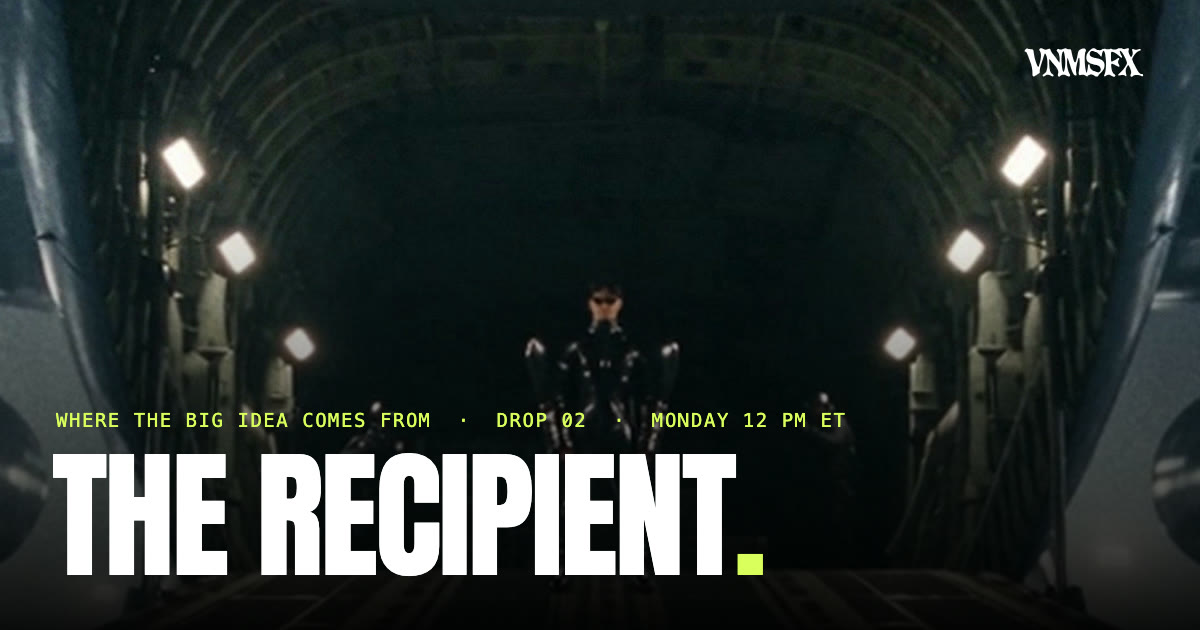
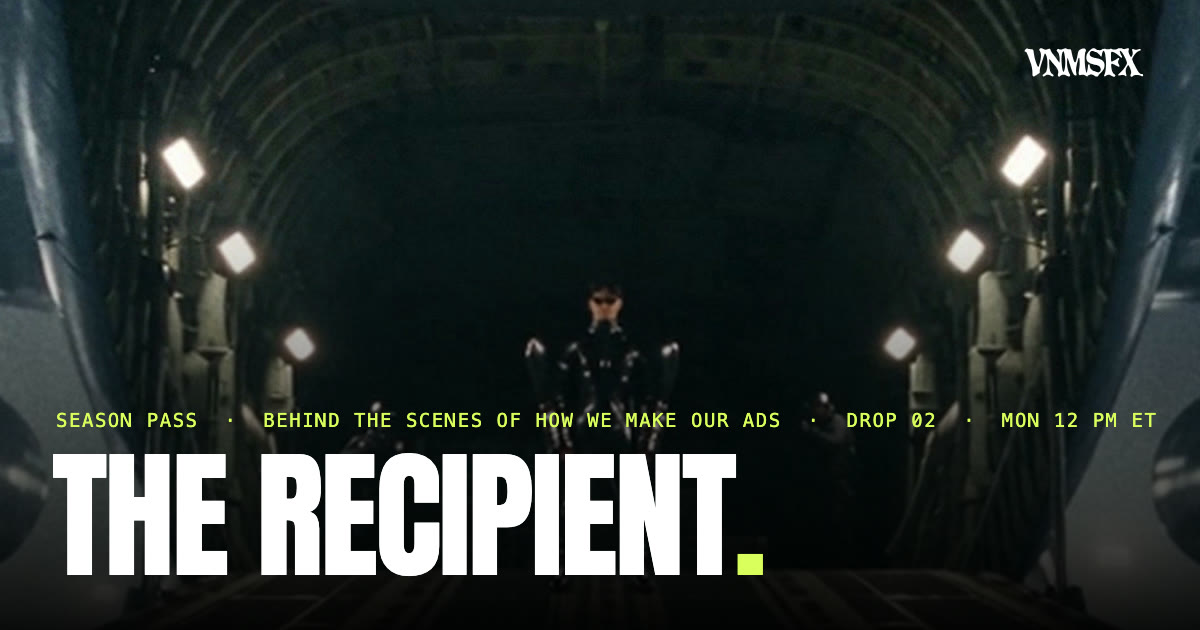
Drops: Season Pass first — behind the scenes of how we make our ads

Changed region(s): [[0.0308, 0.6333, 0.7708, 0.6937], [0.8325, 0.6333, 0.9558, 0.6937]]

diff --git a/drops/youre-up.html b/drops/youre-up.html
@@ -6,14 +6,14 @@
 <meta name="description" content="Frozen fries get a classified extraction just to make it to an air fryer. You’re Up., a VNMSFX TV blockbuster ad, is out now. Join the Season Pass to see the idea underneath it and the next drop 24 hours early.">
 <link rel="canonical" href="https://vnmsfx.com/drops/youre-up"><meta name="theme-color" content="#101010">
 <meta property="og:type" content="website"><meta property="og:site_name" content="VNMSFX TV"><meta property="og:url" content="https://vnmsfx.com/drops/youre-up">
-<meta property="og:title" content="You’re Up. — Where the Big Idea Comes From, Drop 01"><meta property="og:description" content="Frozen fries get a classified extraction. Out now. The idea underneath it is on the Season Pass.">
-<meta property="og:image" content="https://vnmsfx.com/tv/drops/share-youre-up.jpg"><meta property="og:image:secure_url" content="https://vnmsfx.com/tv/drops/share-youre-up.jpg"><meta property="og:image:type" content="image/jpeg"><meta property="og:image:width" content="1200"><meta property="og:image:height" content="630"><meta property="og:image:alt" content="You’re Up. A man in a fry costume carries a case through a warehouse, flanked by a tactical team."><meta name="twitter:card" content="summary_large_image"><meta name="twitter:title" content="You’re Up. — Where the Big Idea Comes From, Drop 01"><meta name="twitter:description" content="Frozen fries get a classified extraction. Out now. The idea underneath it is on the Season Pass."><meta name="twitter:image" content="https://vnmsfx.com/tv/drops/share-youre-up.jpg">
+<meta property="og:title" content="You’re Up. — Season Pass Drop 01 · Behind the scenes of how we make our ads"><meta property="og:description" content="Frozen fries get a classified extraction. Out now. The idea underneath it is on the Season Pass.">
+<meta property="og:image" content="https://vnmsfx.com/tv/drops/share-youre-up.jpg"><meta property="og:image:secure_url" content="https://vnmsfx.com/tv/drops/share-youre-up.jpg"><meta property="og:image:type" content="image/jpeg"><meta property="og:image:width" content="1200"><meta property="og:image:height" content="630"><meta property="og:image:alt" content="You’re Up. A man in a fry costume carries a case through a warehouse, flanked by a tactical team."><meta name="twitter:card" content="summary_large_image"><meta name="twitter:title" content="You’re Up. — Season Pass Drop 01 · Behind the scenes of how we make our ads"><meta name="twitter:description" content="Frozen fries get a classified extraction. Out now. The idea underneath it is on the Season Pass."><meta name="twitter:image" content="https://vnmsfx.com/tv/drops/share-youre-up.jpg">
 <link rel="icon" href="/favicon.ico" sizes="any"><link rel="icon" type="image/png" sizes="32x32" href="/assets/favicon-32.png"><link rel="icon" type="image/png" sizes="16x16" href="/assets/favicon-16.png"><link rel="apple-touch-icon" href="/assets/favicon-180.png">
 <link rel="preconnect" href="https://fonts.googleapis.com"><link rel="preconnect" href="https://fonts.gstatic.com" crossorigin>
 <link href="https://fonts.googleapis.com/css2?family=Anton&amp;family=Archivo:wght@400;500;600;700;800;900&amp;family=Space+Mono:wght@400;700&amp;display=swap" rel="stylesheet">
 <link rel="stylesheet" href="/drops/drops.css">
 </head>
-<body class="drop-page" data-drop="the-recipient" data-no-rate="1" data-live-from="2026-09-17T08:00:00Z" data-early="2026-09-17T08:00:00Z" data-release="2026-09-17T08:00:00Z" data-close="2026-09-17T08:00:00Z" data-film="/tv/spots/fries.mp4" data-poster="/tv/spots/fries.jpg" data-live-eyebrow="WHERE THE BIG IDEA COMES FROM · DROP 01 · OUT NOW" data-released-line="Released Thursday, September 17">
+<body class="drop-page" data-drop="the-recipient" data-no-rate="1" data-live-from="2026-09-17T08:00:00Z" data-early="2026-09-17T08:00:00Z" data-release="2026-09-17T08:00:00Z" data-close="2026-09-17T08:00:00Z" data-film="/tv/spots/fries.mp4" data-poster="/tv/spots/fries.jpg" data-live-eyebrow="SEASON PASS · BEHIND THE SCENES OF HOW WE MAKE OUR ADS · DROP 01 · OUT NOW" data-released-line="Released Thursday, September 17">
 <a class="skip" href="#main">Skip to content</a>
 <header class="drop-header"><a class="brand" href="/tv" aria-label="VNMSFX TV"><img src="/assets/logo.svg" width="115" height="28" alt="VNMSFX"></a><nav><a href="/drops">All drops</a><a class="nav-pass" href="#pass">Season Pass <span aria-hidden="true">↗</span></a></nav></header>
 
@@ -25,9 +25,9 @@
     <div class="shade" id="shade"></div>
   </div>
   <div class="stage-copy">
-    <p class="eyebrow" id="stage-eyebrow">WHERE THE BIG IDEA COMES FROM · DROP 01 · OUT NOW</p>
+    <p class="eyebrow" id="stage-eyebrow">SEASON PASS · BEHIND THE SCENES OF HOW WE MAKE OUR ADS · DROP 01 · OUT NOW</p>
     <h1 id="drop-title">YOU’RE UP<span class="acid">.</span></h1>
-    <p class="stage-deck">Frozen fries get a classified extraction just to make it to an air fryer. The idea underneath it goes to the Season Pass.</p>
+    <p class="stage-deck">Your Season Pass ticket: every blockbuster ad 24 hours early, then the idea and the process behind it. This one is out — frozen fries get a classified extraction.</p>
     <p class="countdown-label" id="countdown-label">DROPS IN</p>
     <p class="countdown" id="countdown" aria-live="polite">--:--:--</p>
     <p class="release-line" id="release-line">Thursday, September 17</p>

diff --git a/drops/the-recipient.html b/drops/the-recipient.html
@@ -3,11 +3,11 @@
 <head>
 <meta charset="utf-8"><meta name="viewport" content="width=device-width, initial-scale=1">
 <title>The Recipient — VNMSFX TV</title>
-<meta name="description" content="Where the big idea comes from, one blockbuster ad at a time. The Recipient drops Monday, September 21 at 12:00 PM ET. Season Pass holders get the spot 24 hours early, then how the idea got made.">
+<meta name="description" content="Season Pass: behind the scenes of how we make our ads. The Recipient drops Monday, September 21 at 12:00 PM ET — pass holders get it 24 hours early, then the idea and the process behind it.">
 <link rel="canonical" href="https://vnmsfx.com/drops/the-recipient"><meta name="theme-color" content="#101010">
 <meta property="og:type" content="website"><meta property="og:site_name" content="VNMSFX TV"><meta property="og:url" content="https://vnmsfx.com/drops/the-recipient">
-<meta property="og:title" content="The Recipient — Where the Big Idea Comes From, Drop 02"><meta property="og:description" content="A blockbuster ad drops Monday 12 PM ET. Then we open it up: where the idea came from. Season Pass gets it 24 hours early.">
-<meta property="og:image" content="https://vnmsfx.com/tv/drops/share-the-recipient.jpg"><meta property="og:image:secure_url" content="https://vnmsfx.com/tv/drops/share-the-recipient.jpg"><meta property="og:image:type" content="image/jpeg"><meta property="og:image:width" content="1200"><meta property="og:image:height" content="630"><meta property="og:image:alt" content="The Recipient — drops Monday 12 PM ET. A figure on the ramp of a cargo plane."><meta name="twitter:card" content="summary_large_image"><meta name="twitter:title" content="The Recipient — Where the Big Idea Comes From, Drop 02"><meta name="twitter:description" content="A blockbuster ad drops Monday 12 PM ET. Then we open it up: where the idea came from. Season Pass gets it 24 hours early."><meta name="twitter:image" content="https://vnmsfx.com/tv/drops/share-the-recipient.jpg">
+<meta property="og:title" content="The Recipient — Season Pass Drop 02 · Behind the scenes of how we make our ads"><meta property="og:description" content="A blockbuster ad drops Monday 12 PM ET. Then we open it up: where the idea came from. Season Pass gets it 24 hours early.">
+<meta property="og:image" content="https://vnmsfx.com/tv/drops/share-the-recipient.jpg"><meta property="og:image:secure_url" content="https://vnmsfx.com/tv/drops/share-the-recipient.jpg"><meta property="og:image:type" content="image/jpeg"><meta property="og:image:width" content="1200"><meta property="og:image:height" content="630"><meta property="og:image:alt" content="The Recipient — drops Monday 12 PM ET. A figure on the ramp of a cargo plane."><meta name="twitter:card" content="summary_large_image"><meta name="twitter:title" content="The Recipient — Season Pass Drop 02 · Behind the scenes of how we make our ads"><meta name="twitter:description" content="A blockbuster ad drops Monday 12 PM ET. Then we open it up: where the idea came from. Season Pass gets it 24 hours early."><meta name="twitter:image" content="https://vnmsfx.com/tv/drops/share-the-recipient.jpg">
 <link rel="icon" href="/favicon.ico" sizes="any"><link rel="icon" type="image/png" sizes="32x32" href="/assets/favicon-32.png"><link rel="icon" type="image/png" sizes="16x16" href="/assets/favicon-16.png"><link rel="apple-touch-icon" href="/assets/favicon-180.png">
 <link rel="preconnect" href="https://fonts.googleapis.com"><link rel="preconnect" href="https://fonts.gstatic.com" crossorigin>
 <link href="https://fonts.googleapis.com/css2?family=Anton&amp;family=Archivo:wght@400;500;600;700;800;900&amp;family=Space+Mono:wght@400;700&amp;display=swap" rel="stylesheet">
@@ -25,9 +25,9 @@
     <div class="shade" id="shade"></div>
   </div>
   <div class="stage-copy">
-    <p class="eyebrow" id="stage-eyebrow">WHERE THE BIG IDEA COMES FROM · DROP 02</p>
+    <p class="eyebrow" id="stage-eyebrow">SEASON PASS · BEHIND THE SCENES OF HOW WE MAKE OUR ADS · DROP 02</p>
     <h1 id="drop-title">THE RECIPIENT<span class="acid">.</span></h1>
-    <p class="stage-deck">A blockbuster ad drops Monday. Then we show you the idea underneath it — the thing most ads don't have.</p>
+    <p class="stage-deck">Your Season Pass ticket: every blockbuster ad 24 hours early, then the idea and the process behind it. This one drops Monday.</p>
     <p class="countdown-label" id="countdown-label">DROPS IN</p>
     <p class="countdown" id="countdown" aria-live="polite">--:--:--</p>
     <p class="release-line" id="release-line">Monday, September 21 · 12:00 PM ET</p>

diff --git a/drops.html b/drops.html
@@ -5,7 +5,7 @@
 <title>Drops — VNMSFX TV</title>
 <meta name="description" content="Where the big idea comes from, one blockbuster ad at a time. Each drop: the spot 24 hours early for the Season Pass, then how the idea got made.">
 <link rel="canonical" href="https://vnmsfx.com/drops"><meta name="theme-color" content="#101010">
-<meta property="og:type" content="website"><meta property="og:site_name" content="VNMSFX TV"><meta property="og:url" content="https://vnmsfx.com/drops"><meta property="og:title" content="Where the Big Idea Comes From — VNMSFX TV Drops"><meta property="og:description" content="One blockbuster ad at a time: the spot 24 hours early, then how the idea got made."><meta property="og:image" content="https://vnmsfx.com/tv/drops/share-drops.jpg"><meta property="og:image:secure_url" content="https://vnmsfx.com/tv/drops/share-drops.jpg"><meta property="og:image:type" content="image/jpeg"><meta property="og:image:width" content="1200"><meta property="og:image:height" content="630"><meta property="og:image:alt" content="VNMSFX TV Drops — new spots 24 hours early with the free Season Pass."><meta name="twitter:card" content="summary_large_image"><meta name="twitter:image" content="https://vnmsfx.com/tv/drops/share-drops.jpg">
+<meta property="og:type" content="website"><meta property="og:site_name" content="VNMSFX TV"><meta property="og:url" content="https://vnmsfx.com/drops"><meta property="og:title" content="Season Pass — Behind the Scenes of How We Make Our Ads · VNMSFX TV"><meta property="og:description" content="One blockbuster ad at a time: the spot 24 hours early, then how the idea got made."><meta property="og:image" content="https://vnmsfx.com/tv/drops/share-drops.jpg"><meta property="og:image:secure_url" content="https://vnmsfx.com/tv/drops/share-drops.jpg"><meta property="og:image:type" content="image/jpeg"><meta property="og:image:width" content="1200"><meta property="og:image:height" content="630"><meta property="og:image:alt" content="VNMSFX TV Drops — new spots 24 hours early with the free Season Pass."><meta name="twitter:card" content="summary_large_image"><meta name="twitter:image" content="https://vnmsfx.com/tv/drops/share-drops.jpg">
 <link rel="icon" href="/favicon.ico" sizes="any"><link rel="icon" type="image/png" sizes="32x32" href="/assets/favicon-32.png"><link rel="icon" type="image/png" sizes="16x16" href="/assets/favicon-16.png"><link rel="apple-touch-icon" href="/assets/favicon-180.png">
 <link rel="preconnect" href="https://fonts.googleapis.com"><link rel="preconnect" href="https://fonts.gstatic.com" crossorigin>
 <link href="https://fonts.googleapis.com/css2?family=Anton&amp;family=Archivo:wght@400;500;600;700;800;900&amp;family=Space+Mono:wght@400;700&amp;display=swap" rel="stylesheet">
@@ -15,7 +15,7 @@
 <a class="skip" href="#main">Skip to content</a>
 <header class="drop-header"><a class="brand" href="/tv" aria-label="VNMSFX TV"><img src="/assets/logo.svg" width="115" height="28" alt="VNMSFX"></a><nav><a href="/tv">VNMSFX TV</a><a class="nav-pass" href="/drops/the-recipient#pass">Season Pass <span aria-hidden="true">↗</span></a></nav></header>
 <main id="main">
-<section class="index-hero"><p class="eyebrow">VNMSFX TV / DROPS</p><h1>WHERE THE BIG IDEA<br><em>COMES FROM.</em></h1><p>One blockbuster ad at a time. Each drop is the spot, 24 hours early for the Season Pass, then how the idea got made — the thinking before any prompt. The drop rate on the Creative Sprint is open while the window is.</p></section>
+<section class="index-hero"><p class="eyebrow">VNMSFX TV / DROPS</p><h1>SEASON PASS.<br><em>BEHIND THE SCENES OF HOW WE MAKE OUR ADS.</em></h1><p>One blockbuster ad at a time. Pass holders get each spot 24 hours early, then the idea and the process behind it. The drop rate on the Creative Sprint is open while a window is.</p></section>
 <section class="index-grid" aria-label="Drops">
   <a class="index-item" href="/drops/the-recipient"><img src="/tv/drops/card-1-ramp.jpg" width="1080" height="1920" alt="The Recipient — package is inbound"><span class="tag" data-drop-tag data-release="2026-09-21T16:00:00Z">NEXT · MON 12 PM ET</span><h3>The Recipient<span class="acid">.</span></h3><span class="sub">Drop 02 · package is inbound</span></a>
   <a class="index-item" href="/drops/youre-up"><img src="/tv/spots/fries.jpg" width="540" height="960" alt="You’re Up. — frozen fries get a classified extraction"><span class="tag is-live">OUT NOW</span><h3>You’re Up<span class="acid">.</span></h3><span class="sub">Drop 01 · frozen fries, classified extraction</span></a>

diff --git a/api/_drop-mail.js b/api/_drop-mail.js
@@ -39,7 +39,7 @@ VNMSFX TV — ${pageUrl}
 You're getting this because you're on the Season Pass. One email per drop. Unsubscribe: ${unsub.url(email)}`;
 const html = (name, email) => `<!doctype html><html><body style="margin:0;padding:0;background:#000;"><table role="presentation" width="100%" cellpadding="0" cellspacing="0" border="0" style="background:#000;"><tr><td align="center" style="padding:28px 12px;"><table role="presentation" width="100%" cellpadding="0" cellspacing="0" border="0" style="max-width:600px;background:${ink};">
 <tr><td><a href="${filmUrl}"><img src="https://vnmsfx.com${drop.cards[2]}" width="600" alt="${drop.title}" style="display:block;width:100%;height:auto;border:0;"></a></td></tr>
-<tr><td style="padding:28px 32px 0 32px;"><div style="${mono}font-size:11px;color:${grey};">WHERE THE BIG IDEA COMES FROM · DROP 02 · 24 HOURS EARLY</div><div style="${display}font-size:44px;line-height:1.02;color:#fff;margin-top:10px;">${drop.title.toUpperCase()}<span style="color:${acid};">.</span></div></td></tr>
+<tr><td style="padding:28px 32px 0 32px;"><div style="${mono}font-size:11px;color:${grey};">SEASON PASS · BEHIND THE SCENES · DROP 02 · 24 HOURS EARLY</div><div style="${display}font-size:44px;line-height:1.02;color:#fff;margin-top:10px;">${drop.title.toUpperCase()}<span style="color:${acid};">.</span></div></td></tr>
 <tr><td style="padding:18px 32px 0 32px;${body}font-size:16px;line-height:1.6;color:#ddd;">Hey ${name} — it's yours a day before anyone else. Public ${publicAt}. Until then it's just the list.</td></tr>
 <tr><td style="padding:22px 32px 0 32px;"><a href="${filmUrl}" style="${body}display:inline-block;background:${acid};color:${ink};text-decoration:none;font-weight:700;font-size:14px;padding:16px 20px;">Watch with sound &nbsp;↗</a></td></tr>
 <tr><td style="padding:26px 32px 0 32px;"><div style="${mono}font-size:11px;color:${grey};">THE BRIEF</div><div style="${body}font-size:15px;line-height:1.6;color:#fff;margin-top:6px;">${drop.brief}</div><div style="${mono}font-size:11px;color:${grey};margin-top:16px;">WHAT IT TOOK</div><div style="${body}font-size:15px;line-height:1.6;color:#fff;margin-top:6px;">${drop.took}</div></td></tr>

diff --git a/drops/drops.js b/drops/drops.js
@@ -21,7 +21,7 @@
     tease.hidden = false; tease.loop = true; tease.muted = true; tease.poster = body.dataset.poster;
     if (tease.getAttribute('src') !== body.dataset.film) { tease.innerHTML = ''; tease.src = body.dataset.film; tease.load(); }
     tease.play().catch(() => {});
-    eyebrow.textContent = body.dataset.liveEyebrow || 'WHERE THE BIG IDEA COMES FROM · DROP 02 · OUT NOW';
+    eyebrow.textContent = body.dataset.liveEyebrow || 'SEASON PASS · BEHIND THE SCENES OF HOW WE MAKE OUR ADS · DROP 02 · OUT NOW';
     label.textContent = 'OUT NOW'; countdown.textContent = '00:00:00'; countdown.hidden = true;
     releaseLine.textContent = body.dataset.releasedLine || 'Released Monday, September 21 · 12:00 PM ET';
     actions.innerHTML = '<button class="button-acid" type="button" id="play-film">Play with sound <span aria-hidden="true">↗</span></button>' + (body.dataset.noRate ? '<a class="button-dark" href="#pass">Join the Season Pass <span aria-hidden="true">↗</span></a>' : '<a class="button-dark" href="/creative-sprint?rate=drop&drop=' + body.dataset.drop + '">Start a Sprint at $1,500 <span aria-hidden="true">↗</span></a>');

diff --git a/api/season-pass.js b/api/season-pass.js
@@ -77,7 +77,7 @@ function welcomeHtml(firstName, drop, rateOpen, email) {
 <table role="presentation" width="100%" cellpadding="0" cellspacing="0" border="0" style="max-width:600px;background:${ink};">
   <tr><td style="padding:0;"><img src="https://vnmsfx.com/tv/drops/email-header.jpg" width="600" alt="VNMSFX TV" style="display:block;width:100%;height:auto;border:0;"></td></tr>
   <tr><td style="padding:28px 32px 0 32px;">
-    <div style="${mono}font-size:11px;color:${grey};">WHERE THE BIG IDEA COMES FROM / SEASON PASS</div>
+    <div style="${mono}font-size:11px;color:${grey};">SEASON PASS / BEHIND THE SCENES OF HOW WE MAKE OUR ADS</div>
     <div style="${display}font-size:44px;line-height:1.02;color:#ffffff;margin-top:10px;">YOU'RE ON<br>THE <span style="color:${acid};">LIST.</span></div>
   </td></tr>
   <tr><td style="padding:20px 32px 0 32px;${body}font-size:16px;line-height:1.6;color:#dddddd;">
